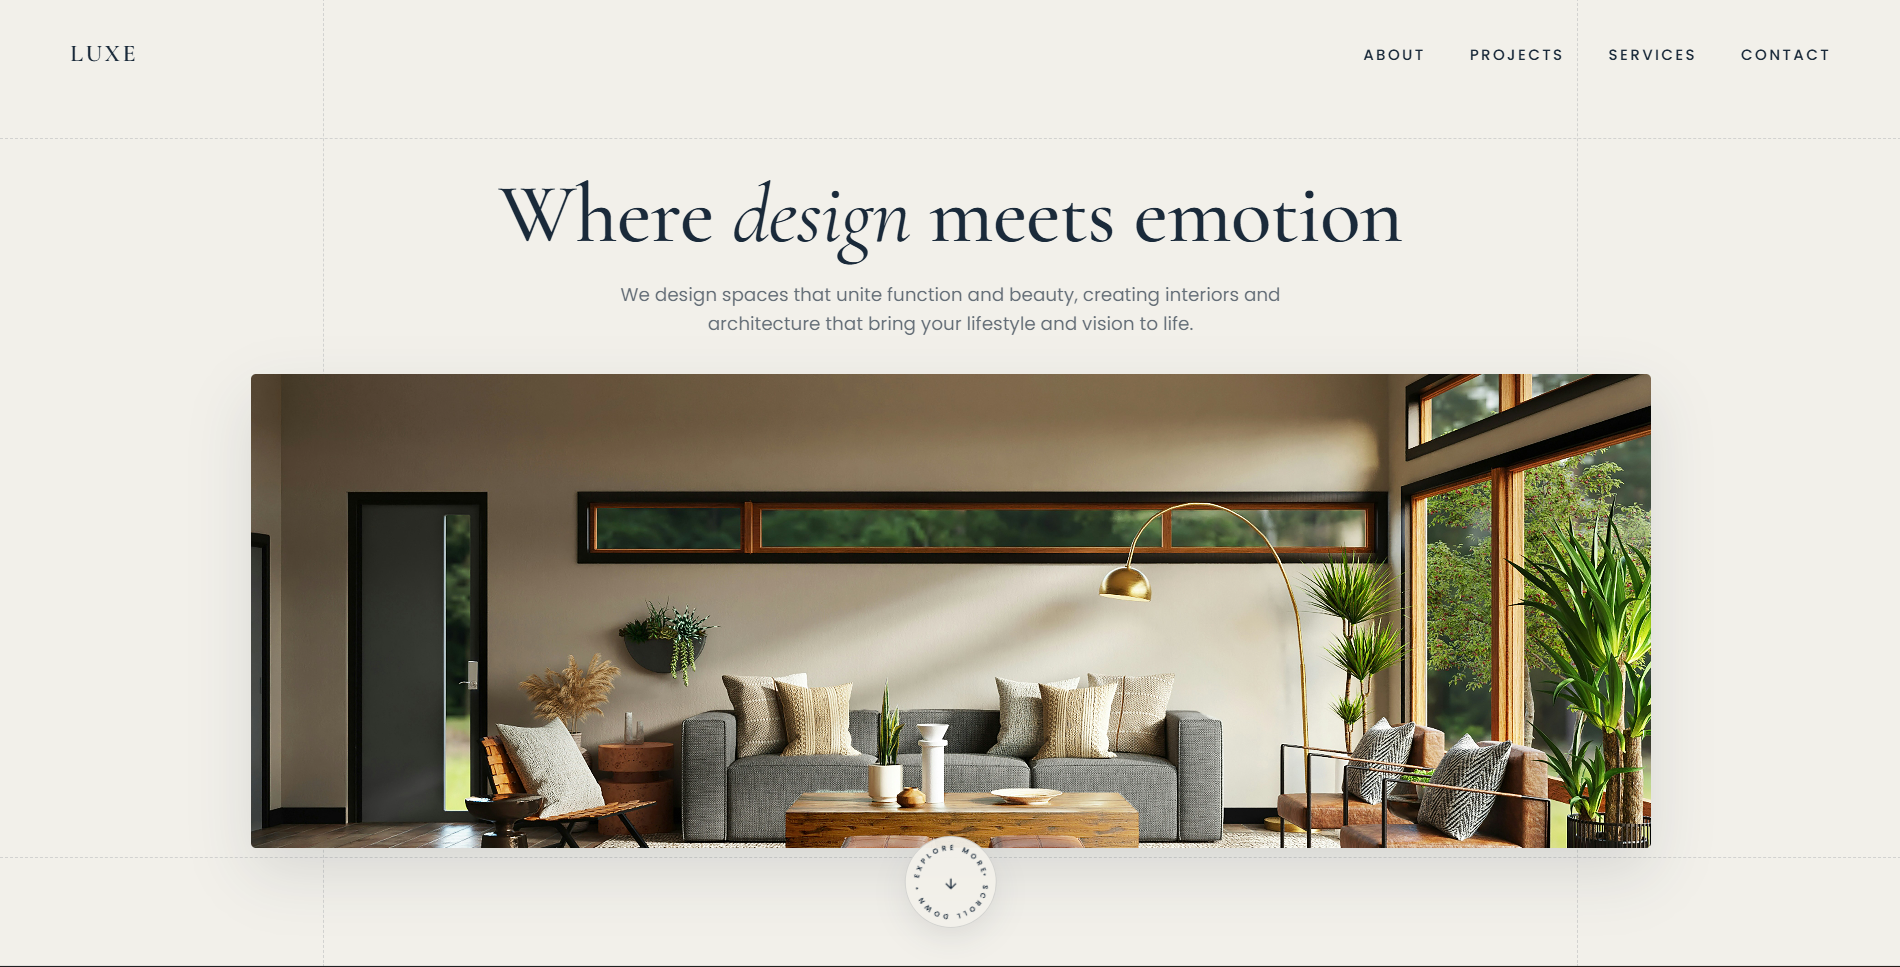
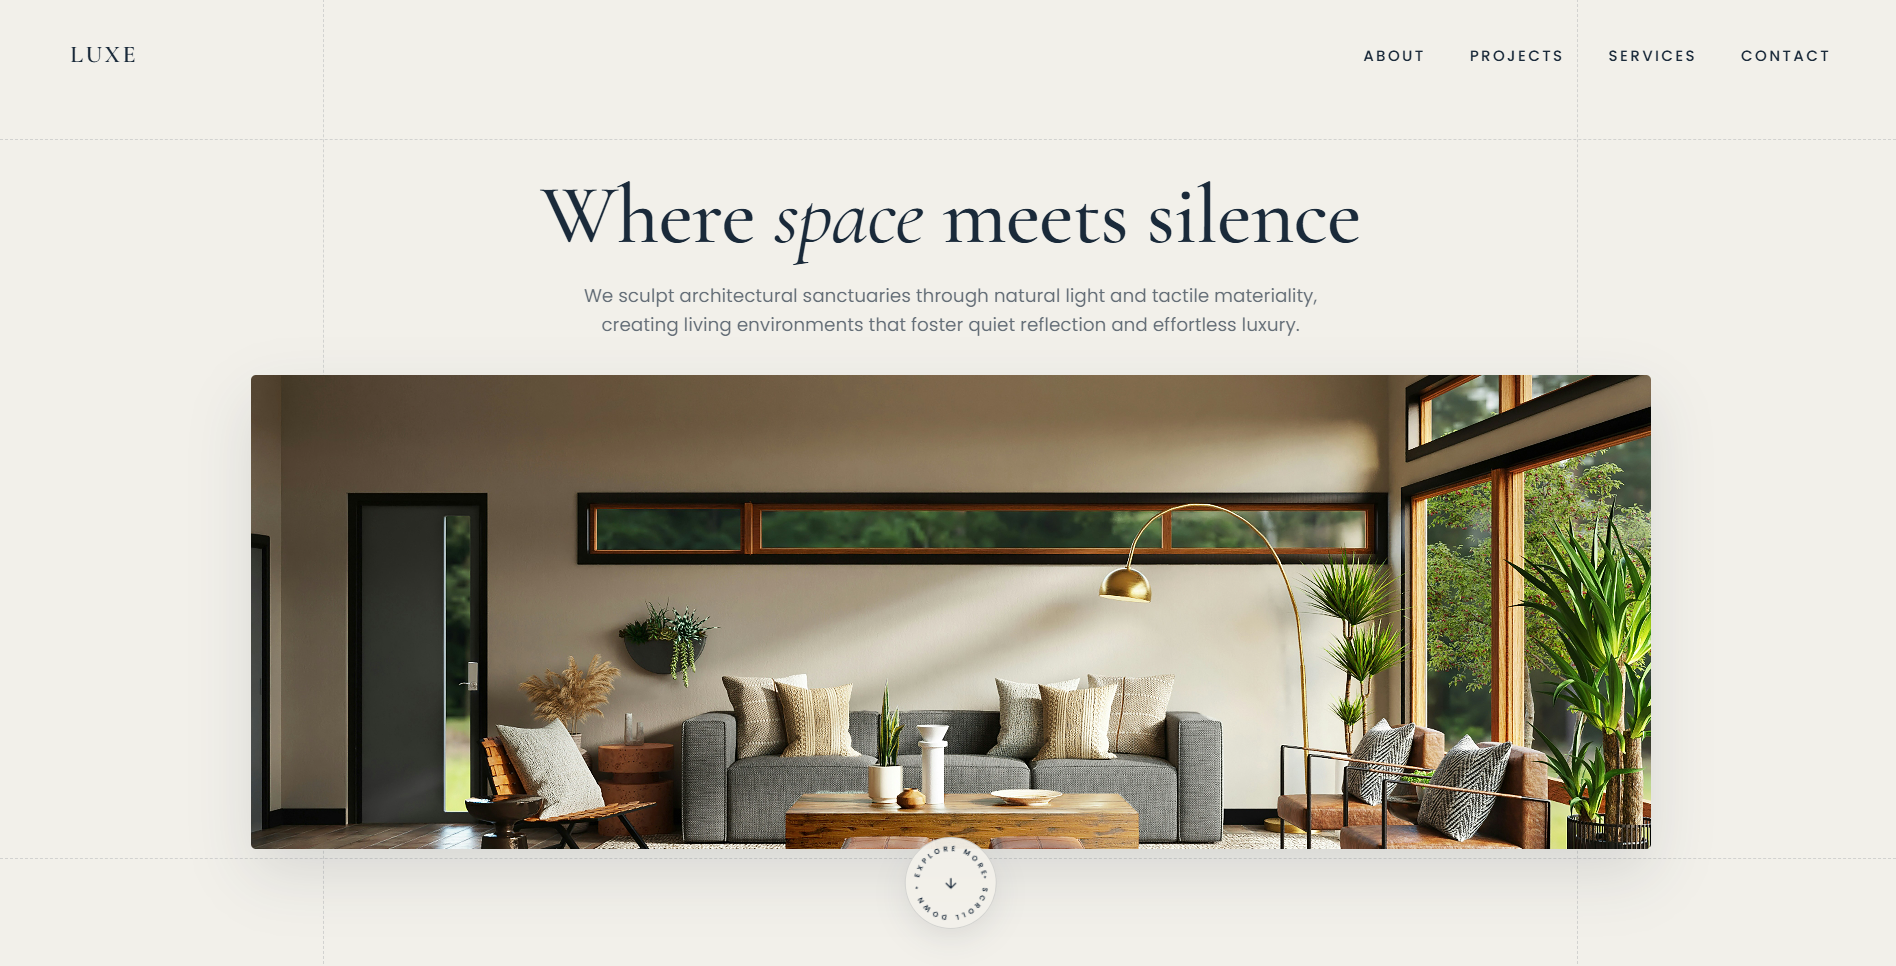
"Luxe project changes"

diff --git a/src/data/projects.ts b/src/data/projects.ts
@@ -60,10 +60,9 @@ export const projects: Project[] = [
       "/Work/Luxe/lx6.png",
       "/Work/Luxe/lx7.png",
     ],
-    liveUrl: "https://luxe-interior-psi.vercel.app/",
+    liveUrl: "https://luxe-interior-studio.vercel.app/",
     status: "Live",
-    description:
-      `The Luxe Interior web application is an interactive, editorial 3D architectural portfolio
+    description: `The Luxe Interior web application is an interactive, editorial 3D architectural portfolio
 engineered with React 19, Three.js, React Three Fiber (R3F), GSAP, and Studio Freight
 Lenis. It showcases a Scandinavian modern interior pavilion through real-time procedural
 wireframes, custom GLSL.`,
@@ -95,8 +94,7 @@ wireframes, custom GLSL.`,
     ],
     liveUrl: "https://pixiebloomlands.vercel.app/",
     status: "Live",
-    description:
-      `Pixie Bloomlands is an immersive, browser-based 3D microsite built with React Three Fiber and GSAP. Designed with an enchanted dark-fantasy aesthetic, the project guides visitors through a stylized woodland environment using scroll-driven camera flight paths, custom WebGL lighting, and real-time interactive low-poly assets.`,
+    description: `Pixie Bloomlands is an immersive, browser-based 3D microsite built with React Three Fiber and GSAP. Designed with an enchanted dark-fantasy aesthetic, the project guides visitors through a stylized woodland environment using scroll-driven camera flight paths, custom WebGL lighting, and real-time interactive low-poly assets.`,
     techStack: [
       { name: "Three.js", icon: "🟢" },
       { name: "GLSL", icon: "🟣" },
@@ -253,7 +251,12 @@ wireframes, custom GLSL.`,
     title: "Golden Hour",
     tagline: "A cinematic web experience",
     thumbnail: "/Work/cine/p2.png",
-    screenshots: ["/Work/cine/p1.png", "/Work/cine/p2.png", "/Work/cine/p3.png", "/Work/cine/p4.png"],
+    screenshots: [
+      "/Work/cine/p1.png",
+      "/Work/cine/p2.png",
+      "/Work/cine/p3.png",
+      "/Work/cine/p4.png",
+    ],
     liveUrl: "https://cinematic-web-experience.vercel.app/",
     status: "Live",
     description:
